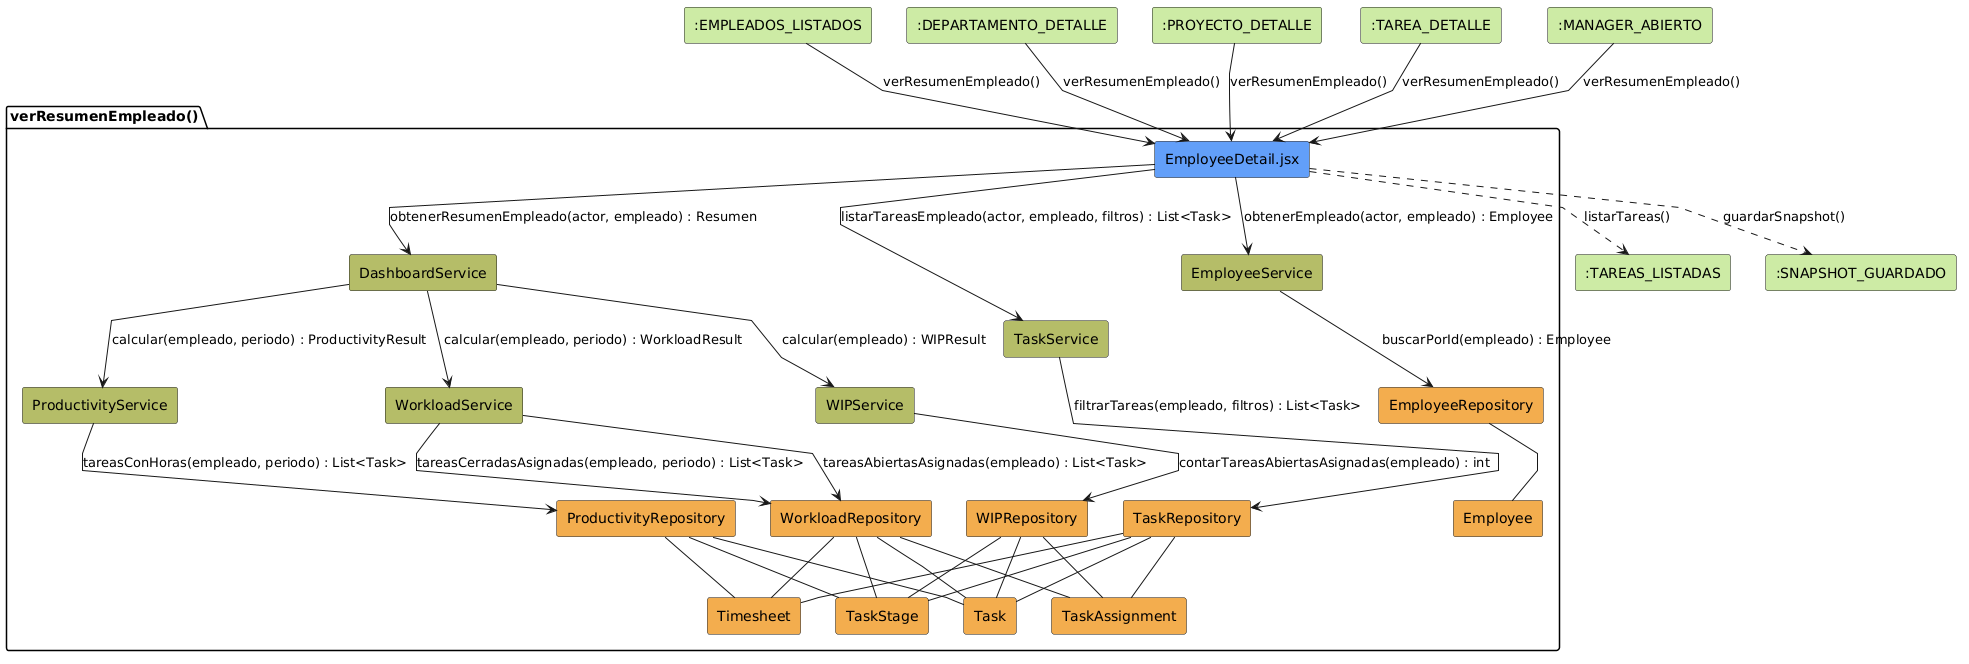
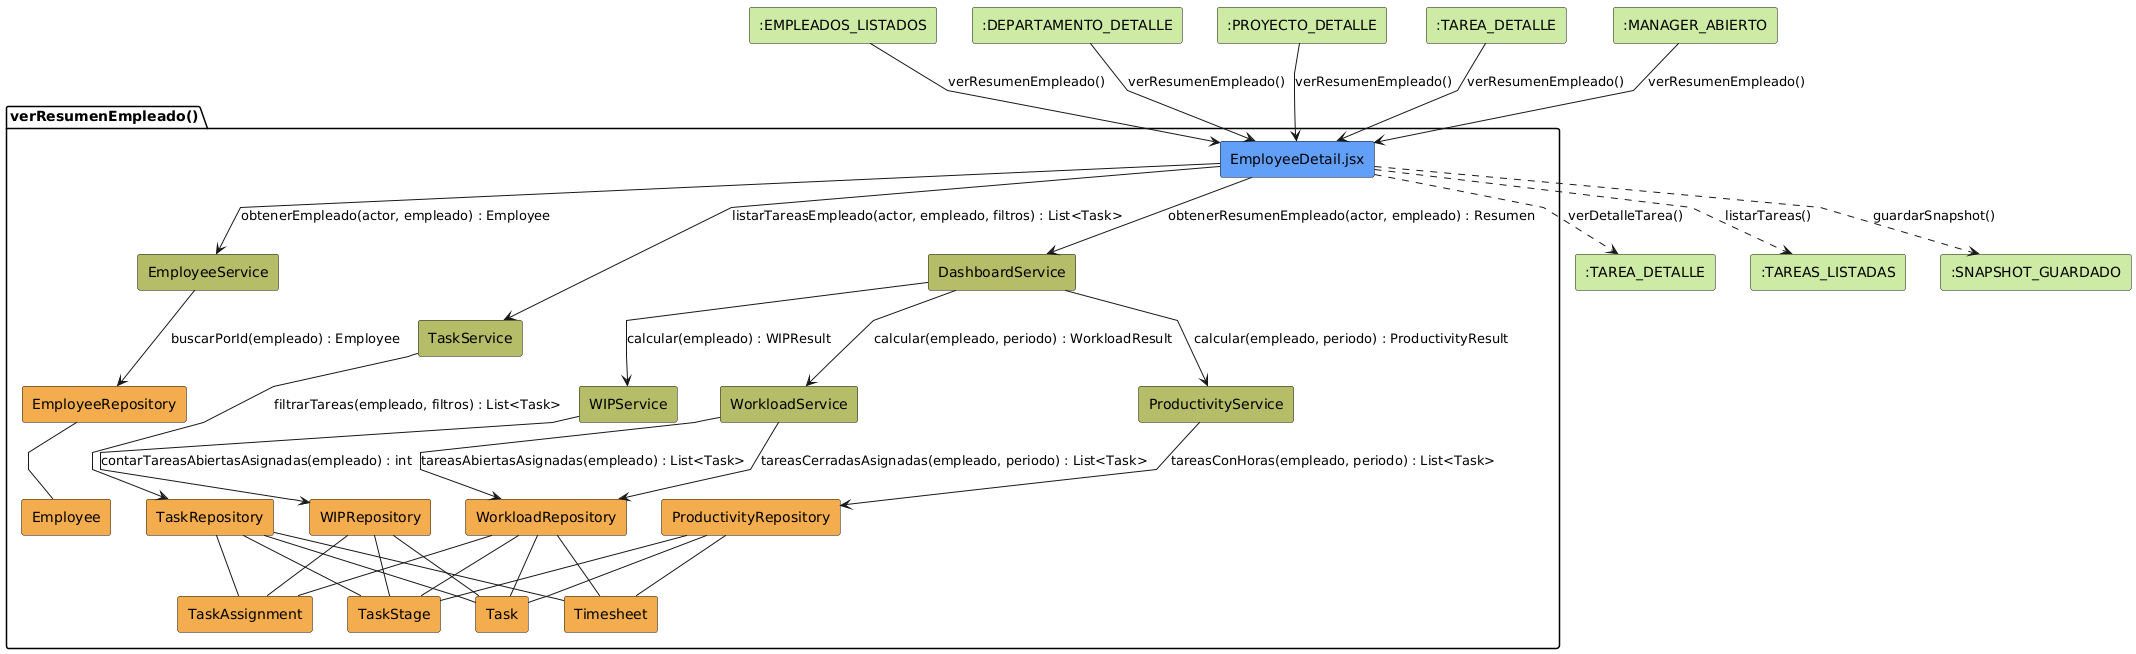
actualización del análisis del CU-03

diff --git a/Estudiantes/cesar-garcia-eguiguren/Capítulo-3/utils/Análisis_CU03.md b/Estudiantes/cesar-garcia-eguiguren/Capítulo-3/utils/Análisis_CU03.md
@@ -20,7 +20,7 @@ Colaboraciones:
 
 - **Entrada:** recibe la solicitud del actor tras navegar desde el listado de empleados, desde el detalle de un proyecto o departamento, desde una tarea asignada al empleado o desde el panel de manager.
 - **Control:** solicita `obtenerEmpleado(actor, empleado)` a `EmployeeService`, `obtenerResumenEmpleado(actor, empleado)` a `DashboardService` y, bajo demanda al seleccionar cada pestaña, `listarTareasEmpleado(actor, empleado, filtros)` a `TaskService`.
-- **Salida:** presenta el panel compuesto del empleado al actor y puede navegar a `:TAREAS_LISTADAS` mediante `listarTareas()`, o `guardarSnapshot()`.
+- **Salida:** presenta el panel compuesto del empleado al actor y puede navegar a `:TAREAS_LISTADAS` o `:TAREA_DETALLE` mediante `listarTareas()` o `verDetalleTarea()`, o `guardarSnapshot()`.
 
 ---
 
@@ -224,4 +224,5 @@ Colaboraciones:
 | Componer resumen unificado | `DashboardService` | Orquesta los tres subservicios y agrega resultados |
 | Mostrar tareas por pestaña bajo demanda | `TaskService` | Filtra tareas por estado, responsable y fechas según la pestaña activa |
 | Navegar al listado completo de tareas | `EmployeeDetail.jsx` | Gestiona la navegación hacia `listarTareas()` con filtros preseleccionados |
+| Navegar al detalle de una tarea | `EmployeeDetail.jsx` | Gestiona la navegación hacia `verDetalleTarea()` al seleccionar una tarea del listado |
 | Guardar captura del panel | `EmployeeDetail.jsx` | Gestiona la navegación hacia `guardarSnapshot()` |
